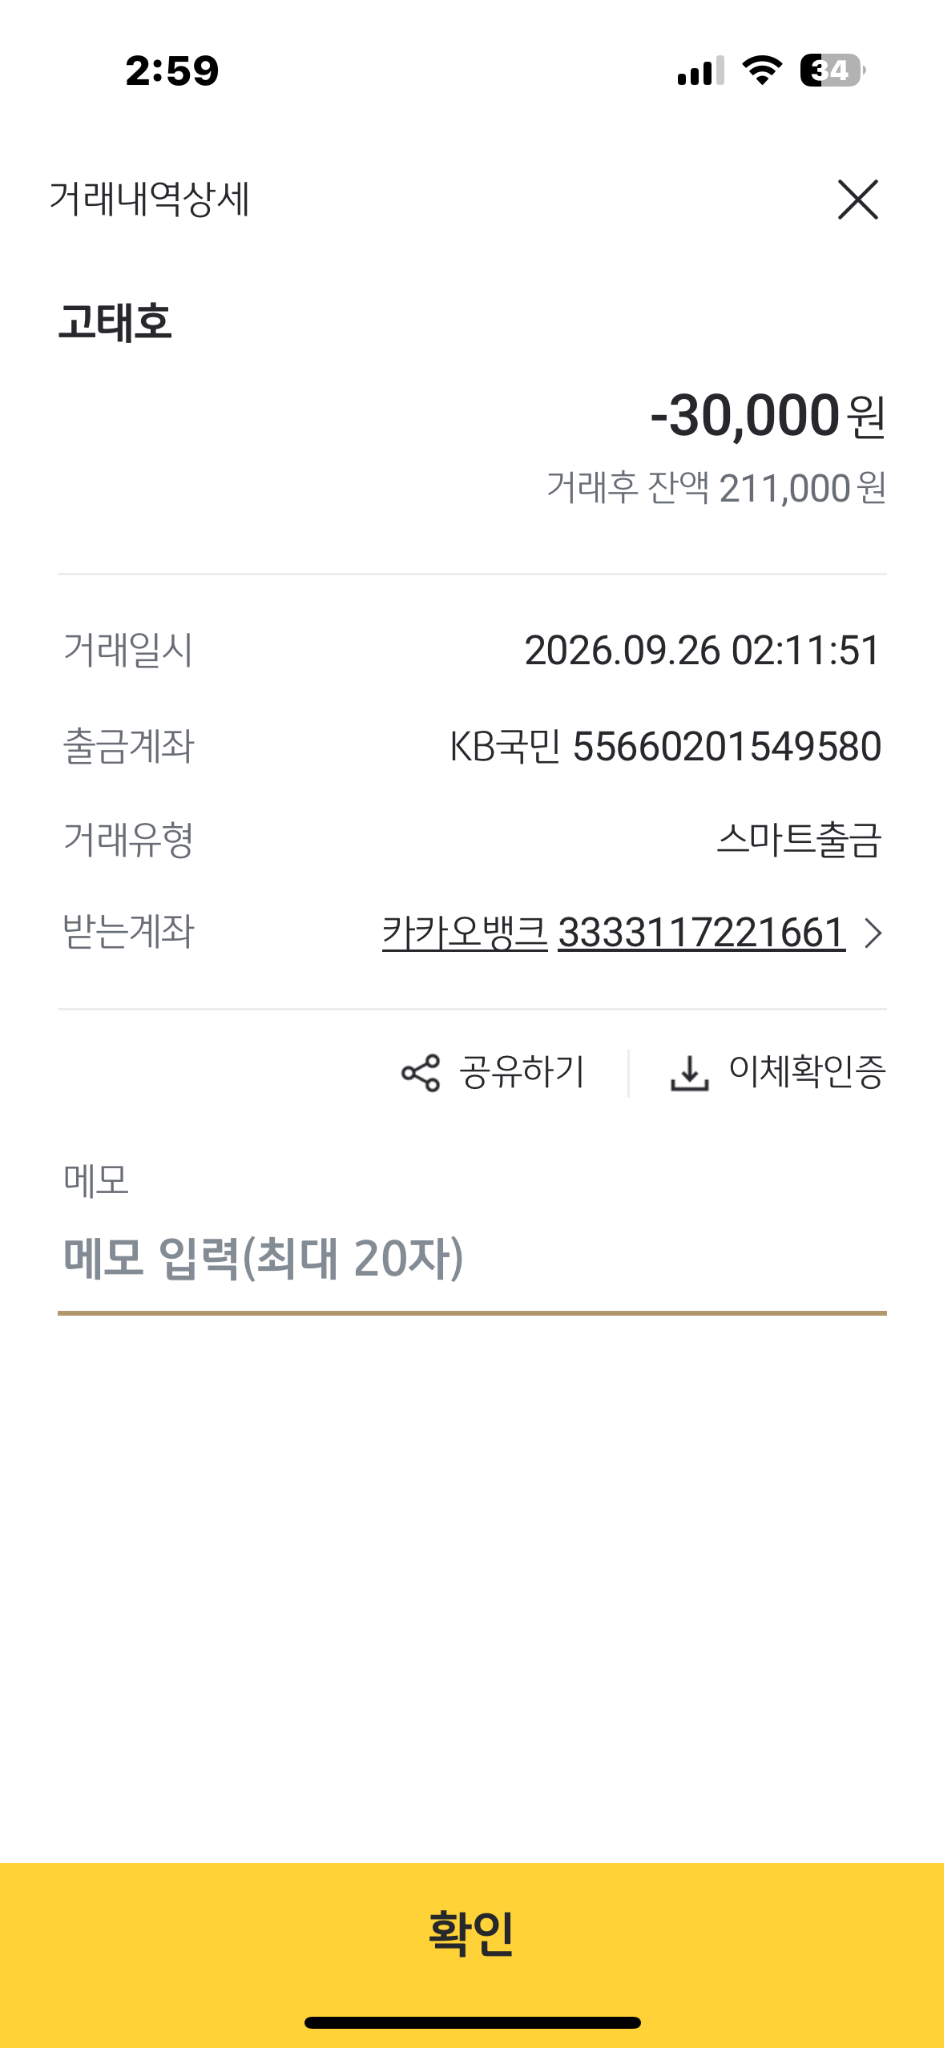
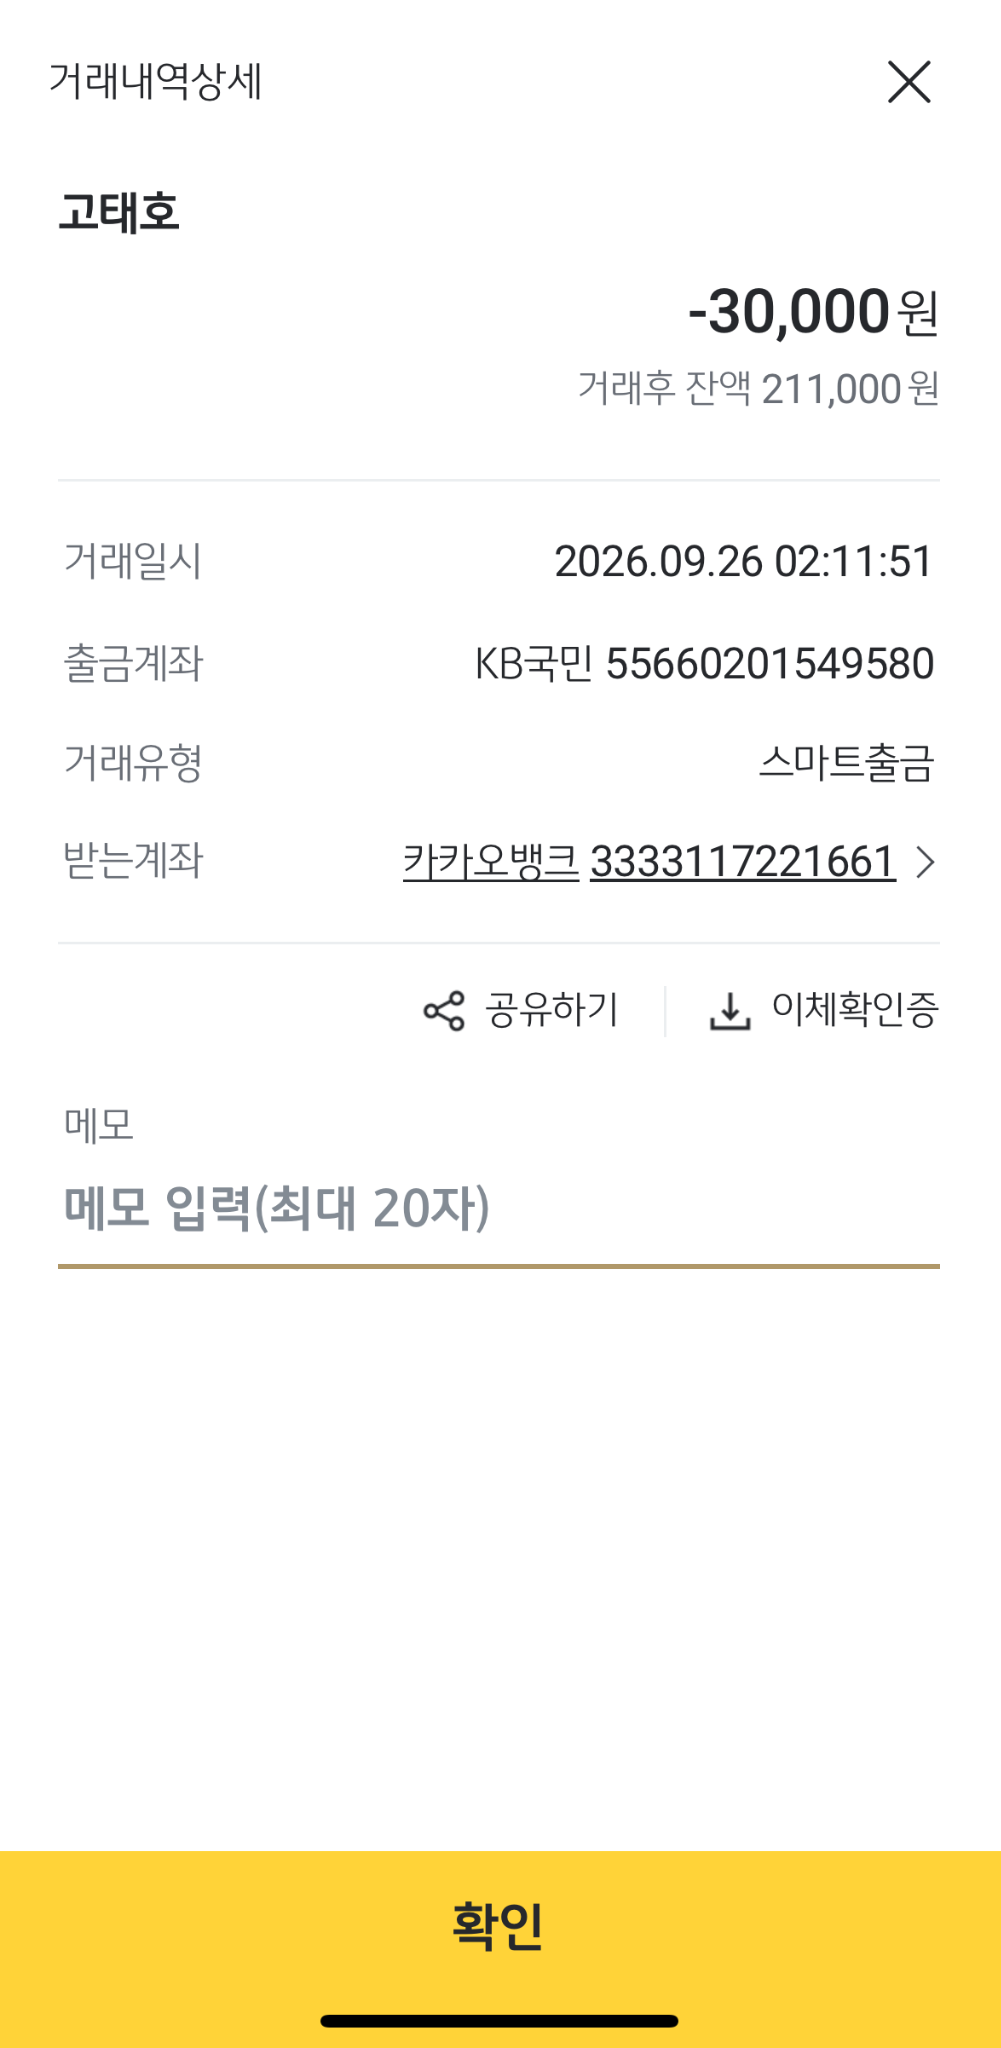
Add files via upload

diff --git a/index.html b/index.html
@@ -3,7 +3,8 @@
 <head>
   <meta charset="utf-8">
   <meta name="viewport" content="width=device-width, initial-scale=1, viewport-fit=cover">
-  <link rel="apple-touch-icon" href="assets/icon.jpg">
+  <link rel="apple-touch-icon" sizes="1024x1024" href="assets/icon.png">
+  <link rel="icon" type="image/png" href="assets/icon.png">
   <meta name="theme-color" content="#eef4fa">
   <meta name="apple-mobile-web-app-capable" content="yes">
   <meta name="apple-mobile-web-app-title" content="계좌 화면 데모">
@@ -18,11 +19,11 @@
     .screen img { display: block; width: 100%; height: auto; user-select: none; -webkit-user-drag: none; }
     .hotspot { position: absolute; display: block; border: 0; padding: 0; background: transparent; cursor: pointer; touch-action: manipulation; }
     .hotspot:focus-visible { outline: 3px solid #365ee8; outline-offset: -3px; border-radius: 8px; }
-    #balance { left: 14%; top: 29%; width: 55%; height: 8%; }
-    #transaction { left: 4%; top: 76%; width: 92%; height: 13%; }
-    #confirm { left: 0; top: 91%; width: 100%; height: 9%; }
-    #back-home { left: 3%; top: 7%; width: 8%; height: 6%; }
-    #close-detail { right: 3%; top: 7%; width: 10%; height: 6%; }
+    #balance { left: 15%; top: 26%; width: 43%; height: 6%; }
+    #transaction { left: 5%; top: 76%; width: 90%; height: 17%; }
+    #confirm { left: 0; top: 90%; width: 100%; height: 10%; }
+    #back-home { left: 3%; top: 1%; width: 9%; height: 6%; }
+    #close-detail { right: 3%; top: 1%; width: 11%; height: 6%; }
     @media (min-width: 481px) { main { box-shadow: 0 0 30px #0002; } }
   </style>
 </head>

diff --git a/README.md b/README.md
@@ -9,6 +9,10 @@
 3. 저장소의 **Settings → Pages → Build and deployment**에서 **Deploy from a branch**, `main`, `/ (root)`를 선택해 저장합니다.
 4. 표시된 `https://사용자명.github.io/저장소명/` 주소를 아이폰 Safari에서 엽니다. Safari 공유 메뉴의 **홈 화면에 추가**를 선택하면 아이콘처럼 실행할 수 있습니다.
 
+이미 이전 버전을 올렸다면 저장소의 **Add file → Upload files**에서 새 `index.html`과 `assets` 폴더의 파일들을 업로드해 같은 이름의 파일을 교체한 뒤 **Commit changes**를 누릅니다. 이전의 `assets/icon.jpg`는 더 이상 사용하지 않습니다.
+
 화면 이동: 첫 화면 **211,000원** → 거래내역 **고태호 / -30,000원** → 상세 **확인** → 거래내역. 상단의 뒤로 가기와 X도 동작합니다.
+
+아이폰 홈 화면 아이콘은 노란색 아이콘 부분만 재구성한 `assets/icon.png`입니다. 이전 버전을 홈 화면에 추가했다면 기존 아이콘을 삭제하고 새 주소를 다시 추가하세요. 화면이 그대로 보이면 Safari에서 새로고침하세요.
 
 이미지 기반 화면이므로 표시된 시각과 잔액은 고정되어 있습니다. 실제 은행 앱의 데이터와 연결되지 않습니다.
